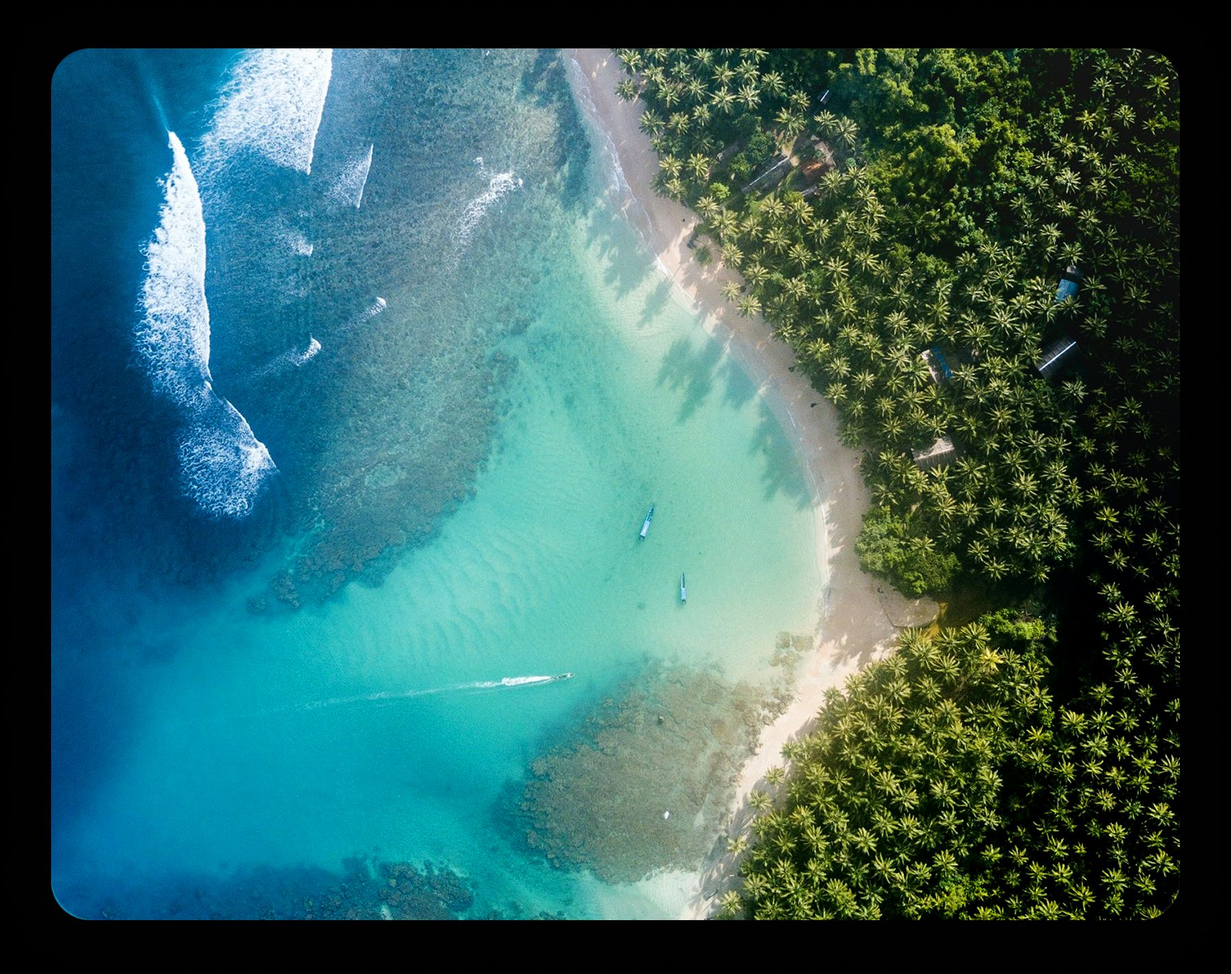
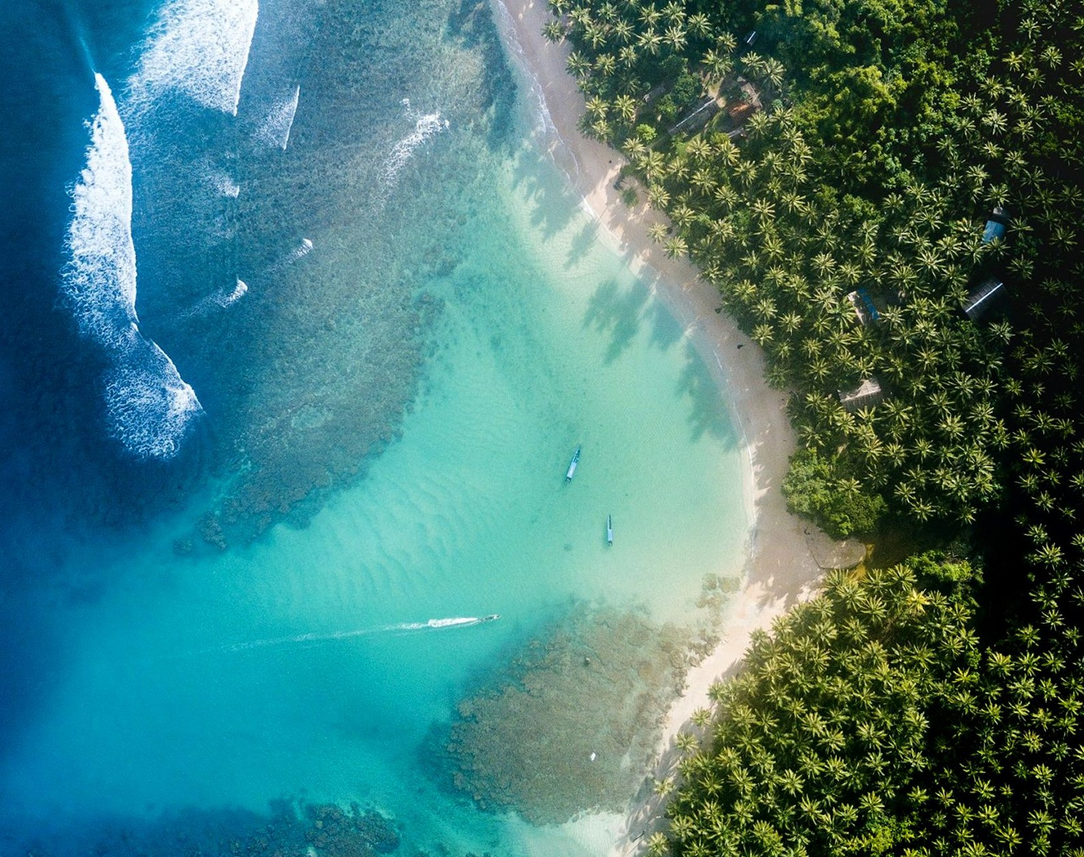
Fix hero image: crop baked-in dark border so it fills the card
The beach photo carried black rounded corners (transparent PNG corners were
flattened onto black in an earlier conversion), so it looked framed inside the
hero card. Crop ~6% off each edge to a clean rectangle and bump the image URL
to ?v=2 so browsers fetch the fresh asset instead of a cached copy.

diff --git a/src/components/features/HeroSection.tsx b/src/components/features/HeroSection.tsx
@@ -1,6 +1,6 @@
 import SearchForm from "@/components/features/SearchForm";
 
-const heroBg = "/hero-bg.jpg";
+const heroBg = "/hero-bg.jpg?v=2";
 
 const HERO_TAGS = [
   { id: "budget", label: "₹1000 - ₹ 3000" },
